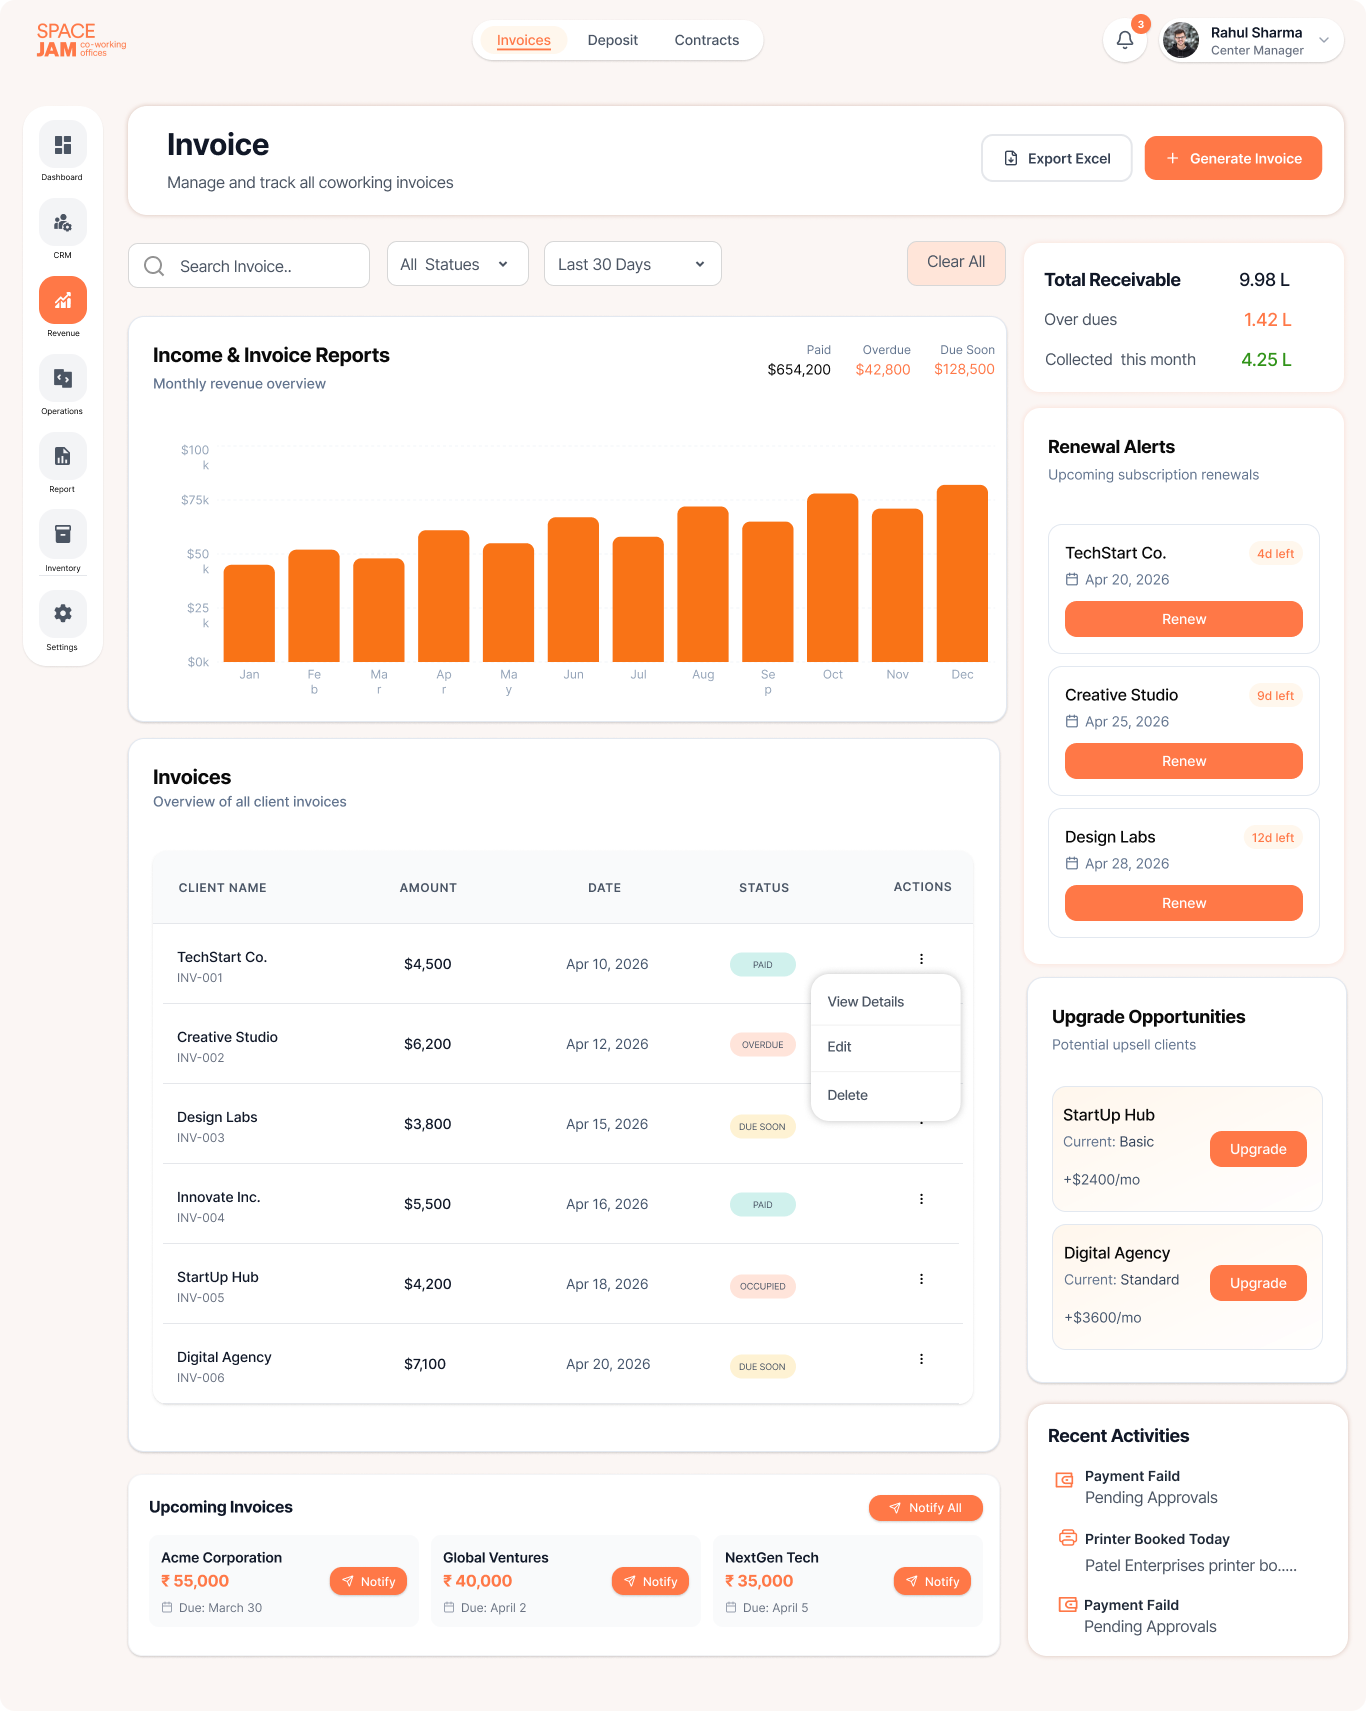
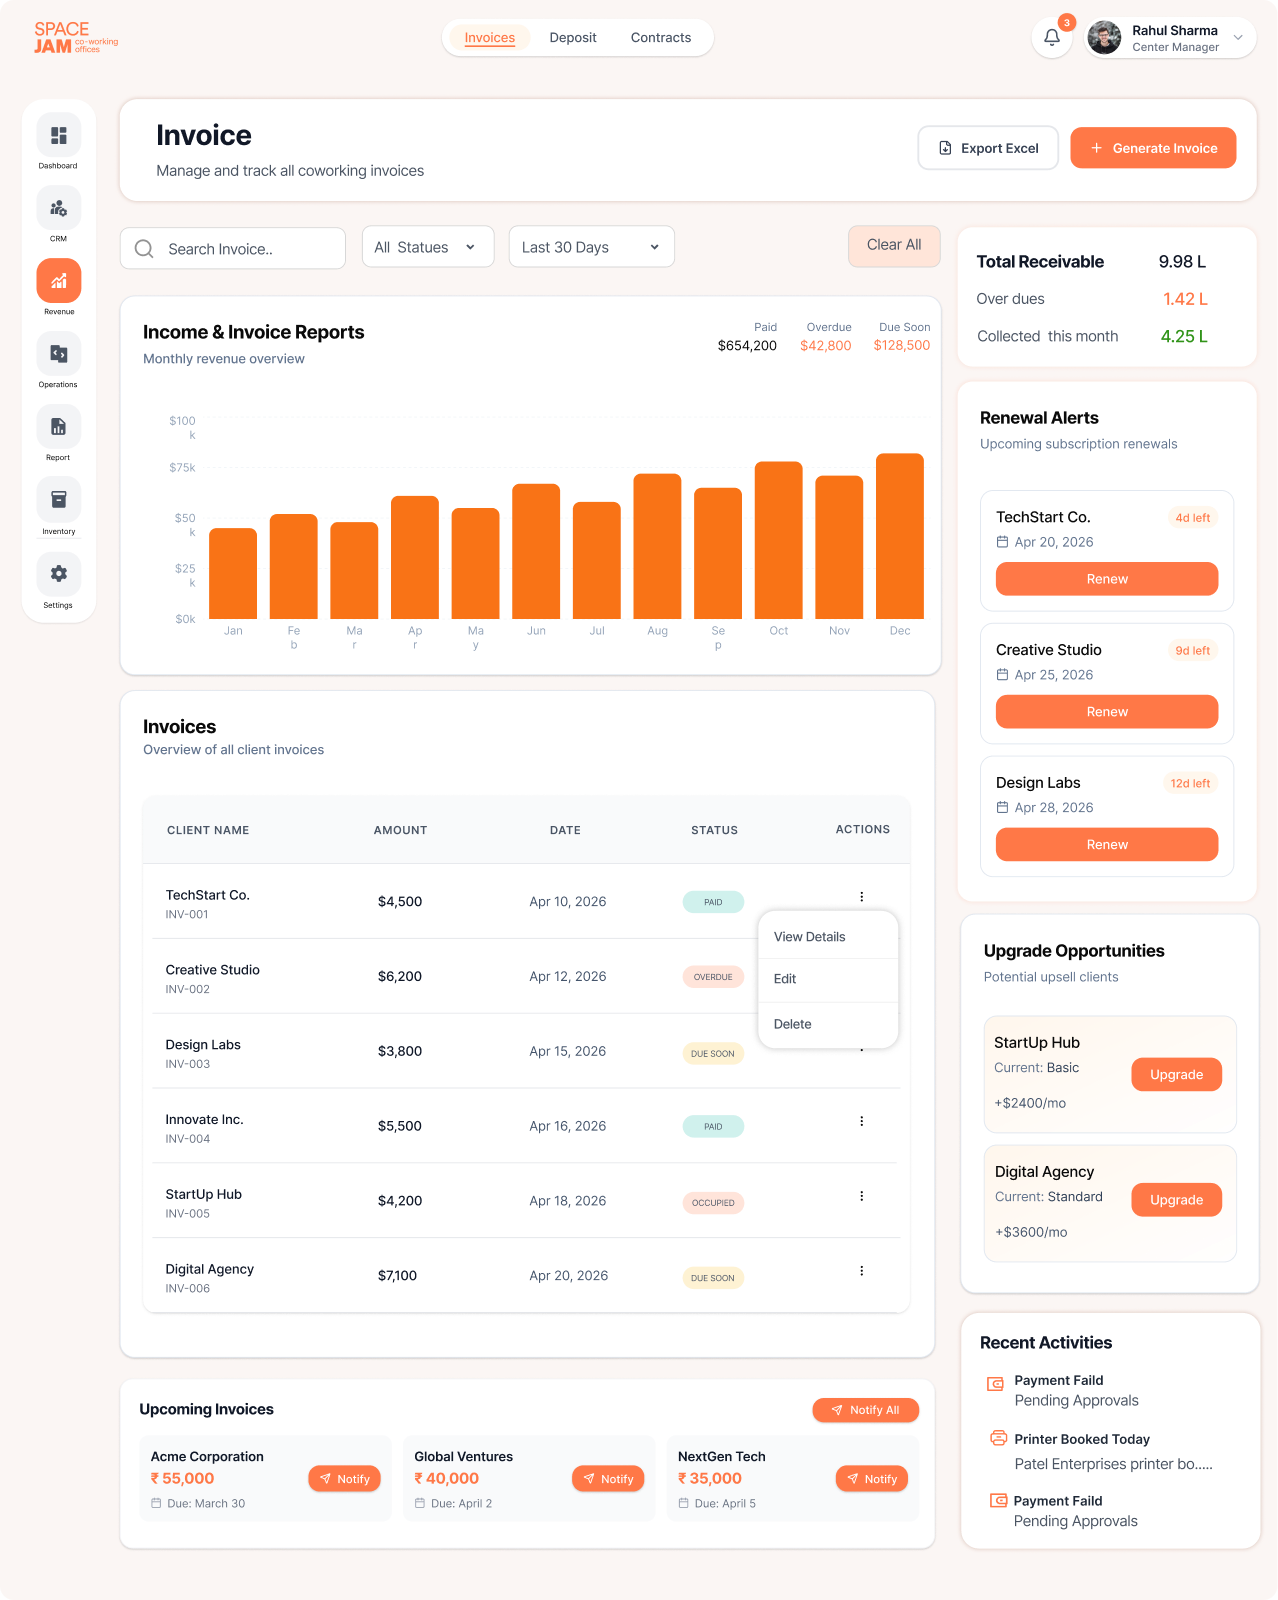
feat: Update TypeScript configuration and add new images for revenue tracking

diff --git a/apps/api/webpack.config.js b/apps/api/webpack.config.js
@@ -5,9 +5,13 @@ module.exports = {
   output: {
     path: join(__dirname, 'dist'),
     clean: true,
+    library: { type: 'commonjs2' },
     ...(process.env.NODE_ENV !== 'production' && {
       devtoolModuleFilenameTemplate: '[absolute-resource-path]',
     }),
+  },
+  experiments: {
+    outputModule: false,
   },
   plugins: [
     new NxAppWebpackPlugin({